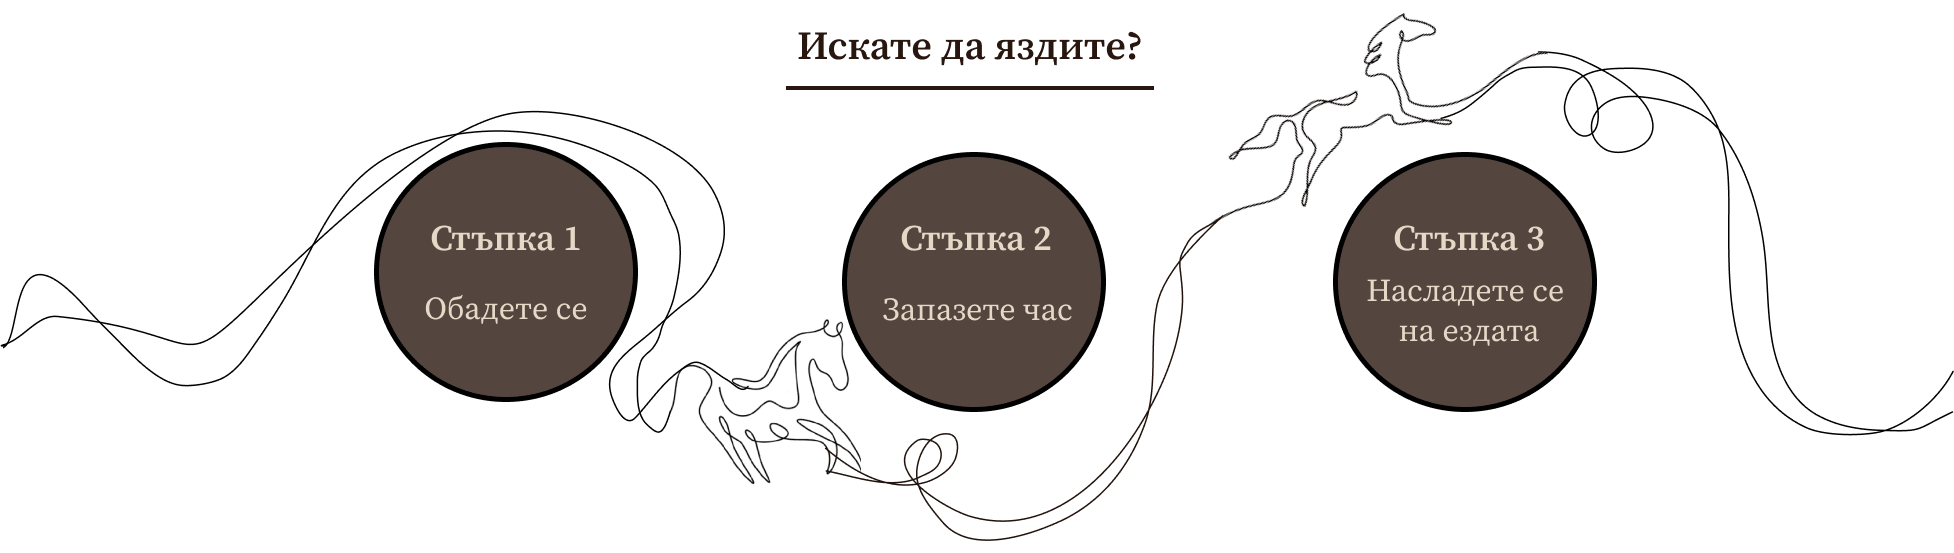
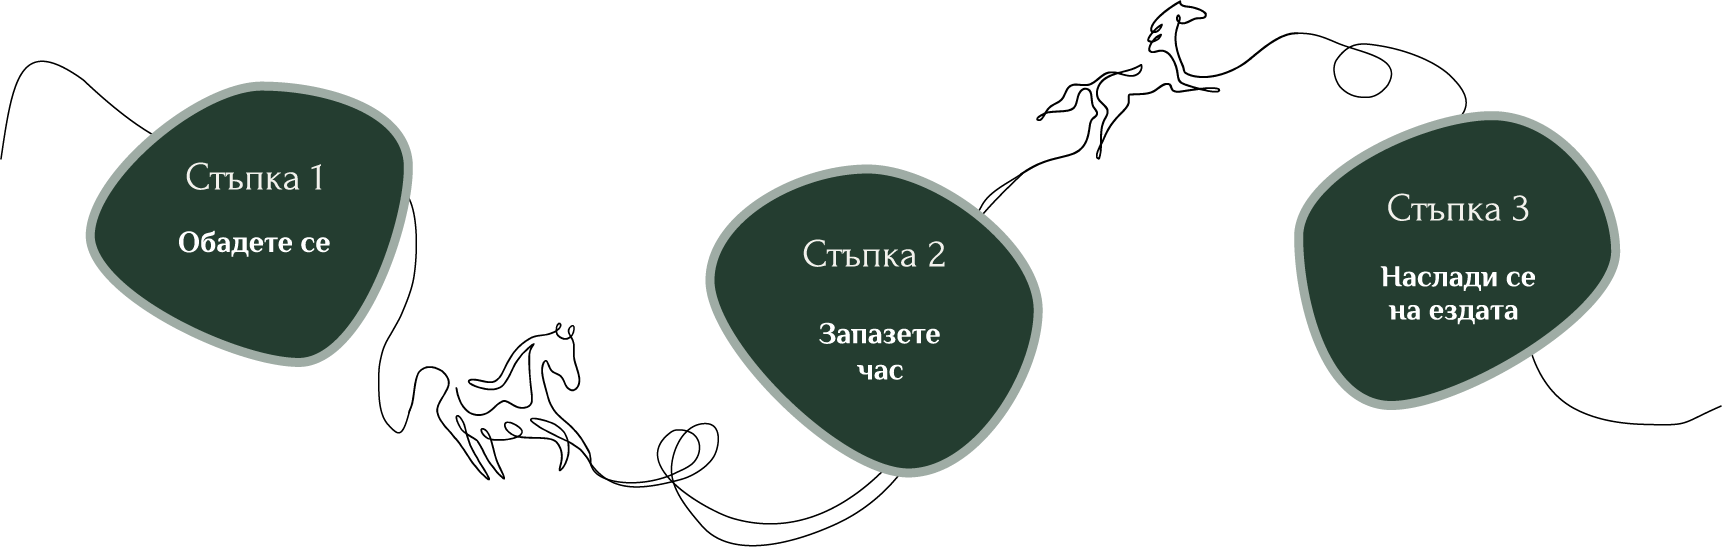
🤗 Made bg version of steps element! I am really good designer

diff --git a/src/components/WelcomePage.jsx b/src/components/WelcomePage.jsx
@@ -6,11 +6,12 @@ import AdgorVideo from "./images/adgorStartingVideo.webm";
 import TrenirovkiNaKone from "./images/TrenirovkiNaKoneIMG.webp";
 import Pansion from "./images/PansionIMG.webp";
 import Ezda from "./images/EzdaIMG.webp";
-// import Steps from "./images/Steps.webp";
+import Steps from "./images/Steps.webp";
 import StepsEn from "./images/StepsEn.webp";
-// import StepsSmall from "./images/StepsSmall.webp";
+import StepsSmall from "./images/StepsSmall.webp";
 import StepsSmallEn from "./images/StepsSmallEn.webp";
 import StepsMobile from "./images/StepsMobile.webp";
+import StepsMobileEn from "./images/StepsMobileEn.webp";
 // import LineHores from "./images/twohorses.webp";
 // import Foundation from "./images/Foundation.webp";
 // import FoundationCutUp from "./images/FoundationCutUp.png";
@@ -262,24 +263,21 @@ const WelcomePage = () => {
         </a>
       </div>
 
-      <p className="centerTitle" style={{marginBottom: "0", marginTop: isDesktop ? "10vw" : "100px"}}>Want to ride?</p>
+      <p className="centerTitle" style={{marginBottom: "0", marginTop: isDesktop ? "10vw" : "100px"}}>{i18n.language === "bg" ? "Искаш да язадиш?" : "Want to ride?"}</p>
       {isDesktop ? (
-        // <img src={i18n.language === "bg" ? Steps : StepsEn} alt="" width={"100%"} style={{ margin: "50px 0px" }} />
-        <img src={StepsEn} alt="" width={"100%"} style={{ margin: "50px 0px" }} />
+        <img src={i18n.language === "bg" ? Steps : StepsEn} alt="" width={"100%"} style={{ margin: "50px 0px" }} />
       ) : (
         <>
           {isTablet ? (
             <img
-              // src={i18n.language === "bg" ? StepsSmall : StepsSmallEn}
-              src={StepsSmallEn}
+              src={i18n.language === "bg" ? StepsSmall : StepsSmallEn}
               alt=""
               width={"100%"}
               style={{ margin: "25px 0px" }}
             />
           ) : (
             <img
-              // src={i18n.language === "bg" ? StepsSmall : StepsSmallEn}
-              src={StepsMobile}
+              src={i18n.language === "bg" ? StepsMobile : StepsMobileEn}
               alt=""
               width={"100%"}
               style={{ margin: "25px 0px" }}
